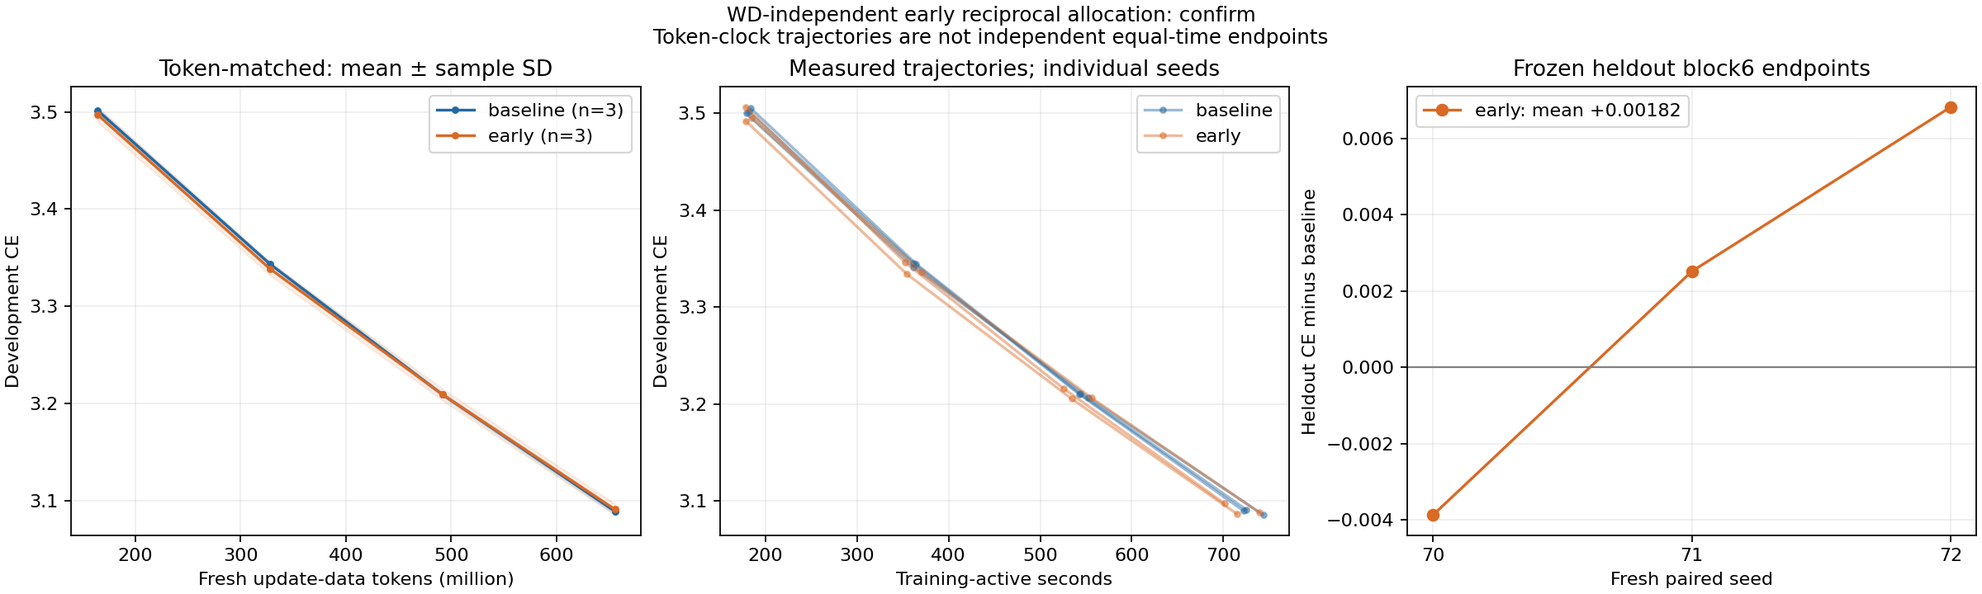
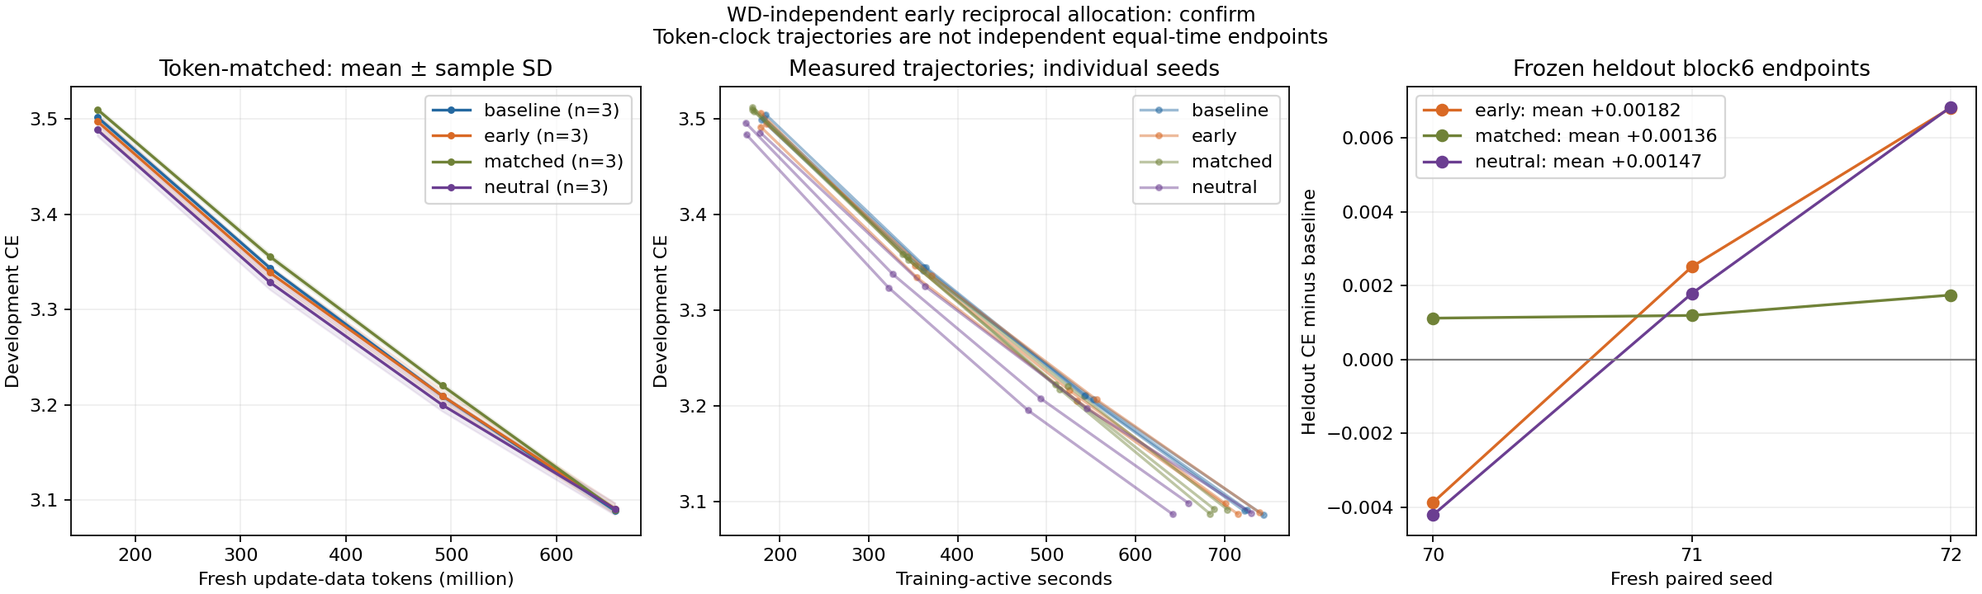
Complete controlled early-allocation study with six seeds and larger heldout evaluation

diff --git a/research/unnormalized_muon/EARLY_ALLOCATION_FINAL.md b/research/unnormalized_muon/EARLY_ALLOCATION_FINAL.md
@@ -1,0 +1,77 @@
+# Early reciprocal allocation: two-hour experiment report
+
+Completed2026-10-17T13:42:51.690129+00:00, within the requested11:53–13:53UTC window on17October2026. All code/configs/results are on `martinjaggi/nanochat:unnormalized-muon`.
+
+**Recommendation: retain the tuned plateau-plus-cooldown baseline. Neither tested WD-independent reciprocal early curve shows a reliable endpoint gain.** This is a negative result for this small controlled family, not a claim that every reciprocal schedule or horizon must fail.
+
+## Main result: six paired seeds
+
+All runs train for20000updates/655.36M fresh tokens. The entire late65% cooldown is identical. Negative deltas favor the variant; CE is natural-log cross-entropy per target token.
+
+| Early peak | Tau after warmup | Original262k heldout delta, mean / SD | Untouched2M heldout delta, mean / SD | Seeds |
+|---|---:|---:|---:|---:|
+| 1x baseline | infinity | reference | reference | 6 |
+| 1.5x | 13920 | +0.001538 / 0.002366 | +0.000718 / 0.002512 | 6 |
+| 2x | 6960 | +0.000727 / 0.003945 | +0.000659 / 0.002864 | 6 |
+
+The seed0 development screen was almost tied: baseline3.090447664,1.5x3.089904308,2x3.089890957. The2x choice was frozen on that screen;1.5x was retained as a secondary comparison before any fresh heldout endpoint because their gap was only0.000013CE. Paired seeds70/71/72 were followed by a balanced frozen-family replication on80/81/82. The extension followed an ambiguous initial result: six-seed estimates are descriptive, without a fixed-sample significance claim. Seeds vary model initialization; the native deterministic data stream is retained.
+
+The unchanged baseline repeat differed from the earlier baseline endpoint by+0.000907CE despite exactly identical initial parameters, all LR/WD inputs and data cursors. The first loss discrepancy was about1e-6 at update11. Compiled BF16 training is not bitwise reproducible across these jobs; no optimizer/model/data recipe change was found. Tiny single-run differences are therefore not a stable optimum.
+
+[Every paired seed, cohorts and curves](EARLY_ALLOCATION_REPLICATION.md). [All30original/larger heldout scores](EARLY_ALLOCATION_LARGE_HELDOUT.md).
+
+![Frozen family: curves and paired endpoints](EARLY_ALLOCATION_REPLICATION.png)
+
+## Weight-decay confound tested directly
+
+The baseline contraction product is0.044527729. Fixed-WD1.5x/2x curves give0.031427187/0.023892497, respectively. Final-product matching was solved with actual matrix LRs, not CLI LRs. All coefficients and products were checked against executed logs.
+
+| Comparison | Original heldout mean delta | Larger heldout mean delta | n |
+|---|---:|---:|---:|
+| 2x vs baseline LR with WD .05512714 | +0.000466 | +0.000072 | 3 |
+| 1.5x vs baseline LR with WD .05108095 | +0.001576 | +0.000169 | 3 |
+| 2x with WD .03827981 vs original baseline | +0.001475 | +0.001493 | 3 |
+| 2x with entire contraction history matched vs original baseline | +0.003186 | +0.003182 | 3 |
+
+No contraction-matched comparison shows a consistent advantage. Matching final products does not match decay histories. The stronger history diagnostic sets lambda_t=lambda_base*eta_base(t)/eta_early(t), preserving every scheduled contraction coefficient. It uses linear WD warmup during the reciprocal phase and ordinary fixed WD afterwards; its implied FW radius changes. It is an empirical diagnostic, not fixed-domain FW.
+
+The early validation advantage fades during the common late cooldown. The history diagnostic fails the predeclared equal-time promotion gate: its seed0 development score3.090945959 is worse than baseline, and paired heldout signs are mixed. **No new independent equal-time reruns were launched.** Token-clock curves versus seconds are descriptive and are not matched equal-time endpoints.
+
+[All control scores](EARLY_ALLOCATION_RESULTS.md), [LR/WD/contraction geometry](EARLY_ALLOCATION_PROTOCOL.md).
+
+![Actual scheduled LR, WD and contraction](EARLY_ALLOCATION_CONTROLS.png)
+
+## Minimal implementation and frozen recipe
+
+* Source fork base commit`b2bdf9890e028965ee7f2e97acc02d72b3c663ec`; first early-schedule implementation`55c6753066901695dd5fbe81304510c0d130f887`. Existing optimizer direction kernels were not changed in this continuation.
+* `cooldown_schedule.early_reciprocal` plus one matrix-only branch in `scripts/base_train.py`; `run.py` forwards the peak multiplier. For s=t-40 and T=6960, eta=.005*k/(1+s/tau), tau=T/(k-1). Warmup reaches k*.005. At update7000, join exactly. Updates7000 onward call the original cooldown function directly; last realized eta=.00005038076923. Tau is independent of WD.
+* History diagnostic adds a separate WD-only hook, preserving actual eta*lambda each update; no parameter direction or auxiliary update changes.
+* Dense depth8,width512,4heads,context1024;125829354 trainable parameters,25166016Muon parameters in52native matrices. Device batch32,accumulation1,32768fresh tokens/update;5.2083tokens per total parameter/run. Native ClimbMix/BOS packing and32k tokenizer; no Atlas assets.
+* Native BF16 computation and embedding storage, FP32 Muon parameters/momentum; FP8off. Clean direction retains native Nesterov, five Polar Express iterations and Frobenius correction; row equilibration/NorMuon off. Shape factors stay inside Q, with one actual canonical eta per matrix group. Ordinary unmasked decay only.
+* CLI matrix LR .02 gives actual join LR .005. Baseline fixed WD .04593746995939655.40-update warmup; final65% linear matrix cooldown to .01of join rate. Auxiliary AdamW schedules and native momentum .85→.97→.90 remain unchanged. Fixed tuning validation262144targets; original heldoutblock6, larger segment batch64–127/2097152targets.
+
+## Correctness and reproducibility
+
+*67CPU optimizer/math/queue checks passed, plus2focused equivalent-push checks;4GPU-only tests skipped on the CPU development pod. B300128-update integration check exercises all schedule phases, with maximum eta*lambda error5.42e-20.
+* Complete audit passes for36full runs/720000updates: exact native parameter partition, paired initial hashes, expected LR/WD, unchanged auxiliary schedules/data cursors, fixed validation hashes, correct gradient counts and contraction exposure. [Machine-readable audit](EARLY_ALLOCATION_EXECUTION_AUDIT.json).
+* All30frozen checkpoints reproduce both original score/hash pairs within1e-5 before larger scoring. Data are cloned from the native reused buffers; validation epoch1 prevents wrapping. The larger set is never used for LR or WD selection. Per-sequence nats/counts remain outside Git; no independence assumption is made for packed sequences.
+* Native NS is approximate, momentum is retained and training is stochastic: this does not validate an exact FW theorem. Results concern this model/batch/horizon/family only.
+
+## Timing and project budget
+
+| Arm | Median training-active sec | Median worker end-to-end sec | Fresh Mtoken/sec (median) |
+|---|---:|---:|---:|
+| baseline | 694.471 | 740.242 | 0.9452 |
+| mid | 661.025 | 711.177 | 0.9916 |
+| early | 707.874 | 753.260 | 0.9259 |
+| history | 689.480 | 734.799 | 0.9505 |
+
+Job throughput varies across scheduled devices/time. These identical native compute pipelines do not establish a method speed advantage from the observed timing differences. All full runs have20000fresh forward/backward evaluations and no extra optimizer probes. Compilation/warmup/evaluation/checkpoint overhead is included in worker/job cost and recorded separately; those clocks can overlap and should not be summed blindly.
+
+New continuation:36completed20k-update training runs, one passed128-update check, one failed short check, and one completed30-checkpoint evaluation. New conservatively charged request-hours **8.118327**, previous **37.069782**, whole project **45.188109/50B300-hours**. Reservations0; all requests/pods/GPU allocations released, including failed jobs. At mostsix outstanding requests and exactlyone actualB300 per job. Charge includes queue/startup/monitoring time and is not a billing measurement.
+
+The heldout-only job took114.259worker seconds, including9.764compilation seconds;2400evaluation microbatch forwards/78643200targets, zero training updates or gradients. Exactcommands, runtime limits, commits and paths are preserved in each run's submission.json and [EXPERIMENTS.csv](EXPERIMENTS.csv). Raw outputs/checkpoints/data are outside Git under`/mloscratch/homes/mljaggi/nanochat-unnormalized-muon-runs/<run_id>/`.
+
+Operational issues preserved: the64-update check had no valid phase between40-update warmup and cooldown; corrected to128with fail-fast validation. A redundant concurrent Git push found the same HEAD already upstream; no result was lost, and a two-test fix accepts only identical remote/local tips while preserving real failures. No branch reset, forcepush, alternate GPU or unrelated job deletion was used.
+
+Use the original plateau/cooldown baseline for this setup. The tested independent-tau early allocation, final-product controls and complete-history diagnostic supply no reliable reason to replace it. Further schedules/horizons remain new hypotheses and need a fair baseline; remaining budget is not a spending target.

diff --git a/research/unnormalized_muon/DETAILED_EVAL.md b/research/unnormalized_muon/DETAILED_EVAL.md
@@ -1,5 +1,7 @@
 # Detailed clean Muon evaluation
 
+[WD-independent early reciprocal experiment](EARLY_ALLOCATION_RESULTS.md) is reported separately, including six-seed replication and dynamic-WD controls.
+
 All results use the B300 fork model/data/tokenizer and a fixed tuning-validation prefix. CE is natural-log token cross-entropy; lower is better. Single-seed LR/WD screening is not a confirmation. Final heldout data is reserved for frozen settings. Compare endpoints only at matching token budgets. Wall-time curves include all training work, including FW forward probes; curves with token-based LR schedules are descriptive, not a separately matched equal-time experiment.
 
 ## Longer runs
@@ -12,42 +14,6 @@ All results use the B300 fork model/data/tokenizer and a fixed tuning-validation
 | normalized WD none 0 | 0.08 | 20000 | 3.112453 | 680.91 | 755.24 |
 | unnormalized cooldown WD none 0 | 0.32 | 20000 | 3.168984 | 681.31 | 754.69 |
 | unnormalized constant WD none 0 | 0.32 | 20000 | 3.209921 | 691.44 | 765.35 |
-| normalized WD standard 0 | 0.02 | 20000 | 3.091088 | 722.24 | 784.34 |
-| normalized WD standard 0 | 0.02 | 20000 | 3.085667 | 740.05 | 798.23 |
-| normalized WD standard 0 | 0.02 | 20000 | 3.089873 | 719.21 | 783.07 |
-| normalized WD standard 0 | 0.02 | 20000 | 3.085548 | 633.52 | 695.15 |
-| normalized WD standard 0 | 0.02 | 20000 | 3.086114 | 664.11 | 720.02 |
-| normalized WD standard 0 | 0.02 | 20000 | 3.088922 | 645.26 | 707.03 |
-| normalized WD standard 0 | 0.02 | 20000 | 3.088452 | 736.52 | 794.05 |
-| normalized WD standard 0 | 0.02 | 20000 | 3.086768 | 712.18 | 770.47 |
-| normalized WD standard 0 | 0.02 | 20000 | 3.097495 | 698.50 | 758.31 |
-| normalized WD standard 0 | 0.02 | 20000 | 3.090832 | 694.93 | 759.04 |
-| normalized WD standard 0 | 0.02 | 20000 | 3.090599 | 690.72 | 753.52 |
-| normalized WD standard 0 | 0.02 | 20000 | 3.085357 | 711.18 | 790.92 |
-| normalized WD standard 0 | 0.02 | 20000 | 3.090946 | 682.92 | 743.58 |
-| normalized WD standard 0 | 0.02 | 20000 | 3.088016 | 686.79 | 746.39 |
-| normalized WD standard 0 | 0.02 | 20000 | 3.089795 | 667.89 | 730.64 |
-| normalized WD standard 0 | 0.02 | 20000 | 3.099023 | 739.51 | 804.65 |
-| normalized WD standard 0 | 0.02 | 20000 | 3.091825 | 685.49 | 747.43 |
-| normalized WD standard 0 | 0.02 | 20000 | 3.087015 | 680.93 | 743.56 |
-| normalized WD standard 0 | 0.02 | 20000 | 3.091281 | 700.68 | 779.60 |
-| normalized WD standard 0 | 0.02 | 20000 | 3.088300 | 650.49 | 714.18 |
-| normalized WD standard 0 | 0.02 | 20000 | 3.085330 | 685.93 | 769.38 |
-| normalized WD standard 0 | 0.02 | 20000 | 3.098647 | 688.60 | 771.85 |
-| normalized WD standard 0 | 0.02 | 20000 | 3.088423 | 666.20 | 740.81 |
-| normalized WD standard 0 | 0.02 | 20000 | 3.090870 | 642.94 | 717.19 |
-| normalized WD standard 0 | 0.02 | 20000 | 3.088668 | 634.15 | 696.33 |
-| normalized WD standard 0 | 0.02 | 20000 | 3.089281 | 743.24 | 830.62 |
-| normalized WD standard 0 | 0.02 | 20000 | 3.084761 | 697.46 | 759.87 |
-| normalized WD standard 0 | 0.02 | 20000 | 3.091987 | 777.61 | 842.36 |
-| normalized WD standard 0 | 0.02 | 20000 | 3.087880 | 726.88 | 806.59 |
-| normalized WD standard 0 | 0.02 | 20000 | 3.086275 | 639.78 | 700.68 |
-| normalized WD standard 0 | 0.02 | 20000 | 3.098150 | 657.07 | 712.74 |
-| normalized WD standard 0 | 0.02 | 20000 | 3.091718 | 687.21 | 749.39 |
-| normalized WD standard 0 | 0.02 | 20000 | 3.089156 | 671.32 | 729.26 |
-| normalized WD standard 0 | 0.02 | 20000 | 3.090448 | 708.99 | 783.18 |
-| normalized WD standard 0 | 0.02 | 20000 | 3.089904 | 641.82 | 701.43 |
-| normalized WD standard 0 | 0.02 | 20000 | 3.089891 | 715.08 | 790.30 |
 | normalized WD standard 0 | 0.01 | 20000 | 3.111594 | 669.52 | 729.25 |
 | normalized WD standard 0 | 0.01 | 20000 | 3.111298 | 689.36 | 751.79 |
 | normalized WD standard 0 | 0.01 | 20000 | 3.110596 | 694.37 | 755.31 |
@@ -314,43 +280,6 @@ The shifted reciprocal control uses eta_i(t)=eta_i0/(1+lambda eta_i0*t/2) after4
 
 | Run | Mode | Fixed lambda | Updates | Val CE | Extra batch forwards | Process sec |
 |---|---|---:|---:|---:|---:|---:|
-| um-earlyalloc-confirm-baseline-s70 | early_reciprocal native | 0.04593747 | 20000 | 3.091088 | 0 | 784.34 |
-| um-earlyalloc-confirm-baseline-s71 | early_reciprocal native | 0.04593747 | 20000 | 3.085667 | 0 | 798.23 |
-| um-earlyalloc-confirm-baseline-s72 | early_reciprocal native | 0.04593747 | 20000 | 3.089873 | 0 | 783.07 |
-| um-earlyalloc-confirm-baseline-s80 | early_reciprocal native | 0.04593747 | 20000 | 3.085548 | 0 | 695.15 |
-| um-earlyalloc-confirm-baseline-s81 | early_reciprocal native | 0.04593747 | 20000 | 3.086114 | 0 | 720.02 |
-| um-earlyalloc-confirm-baseline-s82 | early_reciprocal native | 0.04593747 | 20000 | 3.088922 | 0 | 707.03 |
-| um-earlyalloc-confirm-early-s70 | early_reciprocal native | 0.04593747 | 20000 | 3.088452 | 0 | 794.05 |
-| um-earlyalloc-confirm-early-s71 | early_reciprocal native | 0.04593747 | 20000 | 3.086768 | 0 | 770.47 |
-| um-earlyalloc-confirm-early-s72 | early_reciprocal native | 0.04593747 | 20000 | 3.097495 | 0 | 758.31 |
-| um-earlyalloc-confirm-early-s80 | early_reciprocal native | 0.04593747 | 20000 | 3.090832 | 0 | 759.04 |
-| um-earlyalloc-confirm-early-s81 | early_reciprocal native | 0.04593747 | 20000 | 3.090599 | 0 | 753.52 |
-| um-earlyalloc-confirm-early-s82 | early_reciprocal native | 0.04593747 | 20000 | 3.085357 | 0 | 790.92 |
-| um-earlyalloc-confirm-history-check-002 | early_reciprocal native | 0.04593747 | 128 | 5.910295 | 0 | 61.07 |
-| um-earlyalloc-confirm-history-s0 | early_reciprocal native | 0.04593747 | 20000 | 3.090946 | 0 | 743.58 |
-| um-earlyalloc-confirm-history-s70 | early_reciprocal native | 0.04593747 | 20000 | 3.088016 | 0 | 746.39 |
-| um-earlyalloc-confirm-history-s71 | early_reciprocal native | 0.04593747 | 20000 | 3.089795 | 0 | 730.64 |
-| um-earlyalloc-confirm-history-s72 | early_reciprocal native | 0.04593747 | 20000 | 3.099023 | 0 | 804.65 |
-| um-earlyalloc-confirm-matched-s70 | early_reciprocal native | 0.05512714 | 20000 | 3.091825 | 0 | 747.43 |
-| um-earlyalloc-confirm-matched-s71 | early_reciprocal native | 0.05512714 | 20000 | 3.087015 | 0 | 743.56 |
-| um-earlyalloc-confirm-matched-s72 | early_reciprocal native | 0.05512714 | 20000 | 3.091281 | 0 | 779.60 |
-| um-earlyalloc-confirm-mid-s70 | early_reciprocal native | 0.04593747 | 20000 | 3.088300 | 0 | 714.18 |
-| um-earlyalloc-confirm-mid-s71 | early_reciprocal native | 0.04593747 | 20000 | 3.085330 | 0 | 769.38 |
-| um-earlyalloc-confirm-mid-s72 | early_reciprocal native | 0.04593747 | 20000 | 3.098647 | 0 | 771.85 |
-| um-earlyalloc-confirm-mid-s80 | early_reciprocal native | 0.04593747 | 20000 | 3.088423 | 0 | 740.81 |
-| um-earlyalloc-confirm-mid-s81 | early_reciprocal native | 0.04593747 | 20000 | 3.090870 | 0 | 717.19 |
-| um-earlyalloc-confirm-mid-s82 | early_reciprocal native | 0.04593747 | 20000 | 3.088668 | 0 | 696.33 |
-| um-earlyalloc-confirm-midmatched-s70 | early_reciprocal native | 0.05108095 | 20000 | 3.089281 | 0 | 830.62 |
-| um-earlyalloc-confirm-midmatched-s71 | early_reciprocal native | 0.05108095 | 20000 | 3.084761 | 0 | 759.87 |
-| um-earlyalloc-confirm-midmatched-s72 | early_reciprocal native | 0.05108095 | 20000 | 3.091987 | 0 | 842.36 |
-| um-earlyalloc-confirm-neutral-s70 | early_reciprocal native | 0.03827981 | 20000 | 3.087880 | 0 | 806.59 |
-| um-earlyalloc-confirm-neutral-s71 | early_reciprocal native | 0.03827981 | 20000 | 3.086275 | 0 | 700.68 |
-| um-earlyalloc-confirm-neutral-s72 | early_reciprocal native | 0.03827981 | 20000 | 3.098150 | 0 | 712.74 |
-| um-earlyalloc-match-seed0 | early_reciprocal native | 0.05512714 | 20000 | 3.091718 | 0 | 749.39 |
-| um-earlyalloc-neutral-seed0 | early_reciprocal native | 0.03827981 | 20000 | 3.089156 | 0 | 729.26 |
-| um-earlyalloc-screen-k1 | early_reciprocal native | 0.04593747 | 20000 | 3.090448 | 0 | 783.18 |
-| um-earlyalloc-screen-k1p5 | early_reciprocal native | 0.04593747 | 20000 | 3.089904 | 0 | 701.43 |
-| um-earlyalloc-screen-k2 | early_reciprocal native | 0.04593747 | 20000 | 3.089891 | 0 | 790.30 |
 | um-follow-confirm20000-control-s20 | cooldown native | 0.1837499 | 20000 | 3.111594 | 0 | 729.25 |
 | um-follow-confirm20000-control-s21 | cooldown native | 0.1837499 | 20000 | 3.111298 | 0 | 751.79 |
 | um-follow-confirm20000-control-s22 | cooldown native | 0.1837499 | 20000 | 3.110596 | 0 | 755.31 |

diff --git a/research/unnormalized_muon/EARLY_ALLOCATION_LARGE_HELDOUT.md b/research/unnormalized_muon/EARLY_ALLOCATION_LARGE_HELDOUT.md
@@ -1,0 +1,58 @@
+# Larger untouched heldout evaluation
+
+All30already-frozen final checkpoints scored on the SAME2097152target tokens, native validation batch positions64–127. Validation epoch1 is asserted; these positions are disjoint from original tuning/heldout blocks0–7. Same ClimbMix/native32k tokenizer,32x1024, native BF16 compute/FP32 matrix parameters and compiled loss path. NO training or gradient evaluations. Every checkpoint reproduced its ORIGINAL tuning and heldout hashes/scores within1e-5 before larger scoring.
+
+This adds a new evaluation segment without replacing the original outcomes or changing any settings. Absolute CE differs across segments; compare paired method differences within a segment. The fixed-WD family has6seeds; contraction controls have3. Per-sequence nats/counts are retained outside Git; packed sequences can be dependent, so no independent-sequence significance claim is made.
+
+| Seed | Arm | Original paired CE delta | Larger paired CE delta | Larger CE | Larger BPB |
+|---|---|---:|---:|---:|---:|
+| 70 | baseline | +0.000000000 | +0.000000000 | 3.113696814 | 0.950745310 |
+| 70 | early | -0.003867149 | -0.003471136 | 3.110225677 | 0.949693607 |
+| 70 | history | -0.001327515 | -0.000311375 | 3.113385439 | 0.950660740 |
+| 70 | matched | +0.001123667 | +0.000660419 | 3.114357233 | 0.950942860 |
+| 70 | mid | -0.001323700 | -0.002353907 | 3.111342907 | 0.950029048 |
+| 70 | midmatched | -0.000741005 | +0.000038385 | 3.113735199 | 0.950753250 |
+| 70 | neutral | -0.004207373 | -0.002703428 | 3.110993385 | 0.949925757 |
+| 71 | baseline | +0.000000000 | +0.000000000 | 3.109717131 | 0.949528764 |
+| 71 | early | +0.002515316 | +0.001342058 | 3.111059189 | 0.949941782 |
+| 71 | history | +0.004330873 | +0.003489017 | 3.113206148 | 0.950597949 |
+| 71 | matched | +0.001197100 | +0.001009941 | 3.110727072 | 0.949839074 |
+| 71 | mid | +0.000946522 | -0.000358582 | 3.109358549 | 0.949421321 |
+| 71 | midmatched | +0.000917673 | +0.000469208 | 3.110186338 | 0.949673575 |
+| 71 | neutral | +0.001791477 | +0.002324820 | 3.112041950 | 0.950246920 |
+| 72 | baseline | +0.000000000 | +0.000000000 | 3.114272118 | 0.950921153 |
+| 72 | early | +0.006819248 | +0.004828215 | 3.119100332 | 0.952405979 |
+| 72 | history | +0.006553173 | +0.006368637 | 3.120640755 | 0.952877563 |
+| 72 | matched | +0.001748562 | +0.000813007 | 3.115085125 | 0.951175592 |
+| 72 | mid | +0.005539656 | +0.004814148 | 3.119086266 | 0.952394105 |
+| 72 | midmatched | +0.000256538 | +0.001086950 | 3.115359068 | 0.951252806 |
+| 72 | neutral | +0.006840467 | +0.004856348 | 3.119128466 | 0.952409475 |
+| 80 | baseline | +0.000000000 | +0.000000000 | 3.110992432 | 0.949925975 |
+| 80 | early | +0.002494812 | +0.001369715 | 3.112362146 | 0.950325663 |
+| 80 | mid | +0.002848148 | -0.000531673 | 3.110460758 | 0.949758291 |
+| 81 | baseline | +0.000000000 | +0.000000000 | 3.113025904 | 0.950541423 |
+| 81 | early | -0.001296520 | +0.001451731 | 3.114477634 | 0.950985036 |
+| 81 | mid | +0.000620842 | +0.002307653 | 3.115333557 | 0.951236999 |
+| 82 | baseline | +0.000000000 | +0.000000000 | 3.111200571 | 0.949988838 |
+| 82 | early | -0.002302647 | -0.001568079 | 3.109632492 | 0.949513540 |
+| 82 | mid | +0.000594378 | +0.000429869 | 3.111630440 | 0.950124035 |
+
+mid: n=6, original mean delta+0.001538; larger-set mean **+0.000718CE**, sampleSD **0.002512**.
+
+early: n=6, original mean delta+0.000727; larger-set mean **+0.000659CE**, sampleSD **0.002864**.
+
+matched: n=3, original mean delta+0.001356; larger-set mean **+0.000828CE**, sampleSD **0.000175**.
+
+neutral: n=3, original mean delta+0.001475; larger-set mean **+0.001493CE**, sampleSD **0.003848**.
+
+midmatched: n=3, original mean delta+0.000144; larger-set mean **+0.000532CE**, sampleSD **0.000527**.
+
+history: n=3, original mean delta+0.003186; larger-set mean **+0.003182CE**, sampleSD **0.003351**.
+
+Final-contraction-controlled early minus matched: larger-set mean **+0.000072CE**, sampleSD **0.004080**, n=3.
+
+Final-contraction-controlled mid minus midmatched: larger-set mean **+0.000169CE**, sampleSD **0.003179**, n=3.
+
[1 lines of base64/hex data omitted]
+
+![Original versus larger paired heldout differences](EARLY_ALLOCATION_LARGE_HELDOUT.png)

diff --git a/research/unnormalized_muon/EARLY_ALLOCATION_RESULTS.md b/research/unnormalized_muon/EARLY_ALLOCATION_RESULTS.md
@@ -1,6 +1,6 @@
 # Early reciprocal allocation results
 
-Updated 2026-10-17T13:34:51.558731+00:00. Two-hour research window11:53–13:53UTC,17October2026. Exactly one verified B300/run, six-slot central queue,50B300-hour project-total cap.
+Updated 2026-10-17T13:42:47.905093+00:00. Two-hour research window11:53–13:53UTC,17October2026. Exactly one verified B300/run, six-slot central queue,50B300-hour project-total cap.
 
 This is a new WD-independent schedule, distinct from the earlier WD-coupled reciprocal curve multiplied by cooldown. Baseline actual eta .005, fixed ordinary WD .04593746995939655; 40-update warmup, join at7000, original late65% cooldown unchanged to nominal .00005. Full20k updates/655.36M tokens per token-matched run. [Protocol](EARLY_ALLOCATION_PROTOCOL.md).
 
@@ -10,6 +10,7 @@ This is a new WD-independent schedule, distinct from the earlier WD-coupled reci
 | Early peak 1.5x | 3.089904308 | 644.464 | 0.031427187 |
 | Early peak 2x | 3.089890957 | 718.603 | 0.023892497 |
 | Baseline LR, matched WD 0.055127136 | 3.091718435 | 690.056 | 0.023892497 |
+| Early2x, baseline-contraction WD 0.038279807 | 3.089156389 | 673.512 | 0.044527729 |
 
 Frozen seed0-only selection:
 ```json
@@ -66,8 +67,48 @@ matched minus baseline: mean **+0.001356 CE**, sample SD **0.000342**, n=3.
 
 neutral minus baseline: mean **+0.001475 CE**, sample SD **0.005531**, n=3.
 
+Final-contraction-controlled early minus matched: mean **+0.000466 CE**, sample SD **0.005085**.
+
+Final-contraction-controlled neutral minus baseline: mean **+0.001475 CE**, sample SD **0.005531**.
+
 ## Limits and accounting
 
 Matching final contraction does not match decay history. Both fixed-WD early-allocation and matched-contraction comparisons are required to separate explanations. Auxiliary LRs/WD and momentum are matched. Per-run schedules/logs/checkpoints and hardware assertions are preserved outside Git. Three paired seeds provide limited evidence. Development and heldout blocks are distinct; block6 is used only after settings freeze. Token-clock time curves are descriptive and are not equal-time endpoints.
 
-Conservative recorded request-hours 45.146974; outstanding reserved hours 0.000000. Includes prior and failed work; queued/startup/cleanup request time upper-bounds GPU occupancy.
+Conservative recorded request-hours 45.188109; outstanding reserved hours 0.000000. Includes prior and failed work; queued/startup/cleanup request time upper-bounds GPU occupancy.
+
+## Predeclared near-tied1.5x confirmation
+
+| Seed | Heldout CE | Delta vs original baseline | Active seconds | Contraction product |
+|---|---:|---:|---:|---:|
+| 70 | 3.130945206 | -0.001323700 | 652.872 | 0.031427187 |
+| 71 | 3.127163172 | +0.000946522 | 688.761 | 0.031427187 |
+| 72 | 3.137712240 | +0.005539656 | 691.419 | 0.031427187 |
+
+Mean paired delta **+0.001721 CE**, sample SD **0.003497**, n=3.
+
+1.5x minus its final-contraction-matched baseline: mean **+0.001576 CE**, sample SD **0.003225**.
+
+## 1.5x final-contraction-matched control
+
+| Seed | Heldout CE | Delta vs original baseline | Active seconds | Contraction product |
+|---|---:|---:|---:|---:|
+| 70 | 3.131527901 | -0.000741005 | 747.199 | 0.031427187 |
+| 71 | 3.127134323 | +0.000917673 | 700.173 | 0.031427187 |
+| 72 | 3.132429123 | +0.000256538 | 780.439 | 0.031427187 |
+
+Mean paired delta **+0.000144 CE**, sample SD **0.000835**, n=3.
+
+## 2x with complete contraction history matched
+
+| Seed | Heldout CE | Delta vs original baseline | Active seconds | Contraction product |
+|---|---:|---:|---:|---:|
+| 70 | 3.130941391 | -0.001327515 | 689.480 | 0.044527729 |
+| 71 | 3.130547523 | +0.004330873 | 670.580 | 0.044527729 |
+| 72 | 3.138725758 | +0.006553173 | 742.163 | 0.044527729 |
+
+Mean paired delta **+0.003186 CE**, sample SD **0.004063**, n=3.
+
+History-matched128-update B300 integration job: completed. Actual per-update gamma is audited before full diagnostic runs.
+
+The1.5x secondary arm and history-matched diagnostic were committed before any fresh heldout endpoints. They are reported alongside the primary2x selection, not chosen after test-set inspection. History matching deliberately varies WD/the implied domain; it is a diagnostic of LR allocation, not a fixed-WD FW method.

diff --git a/research/unnormalized_muon/STATUS.md b/research/unnormalized_muon/STATUS.md
@@ -357,3 +357,5 @@ Replicate ALL THREE frozen fixed-WD early allocations on NEW seeds80/81/82 after
 All30frozen checkpoints complete. Evaluate them unchanged on2097152untouched target tokens, native32x1024/validation batches64-127. Reproduce BOTH original score/hash pairs for EVERY checkpoint before scoring. ZERO optimizer or gradient updates. OneB300600s,maxsixcentralqueue,~0.1GPUh. Outputum-earlyalloc-large-eval-001; all original outcomes retained. Evaluation-only scores excluded from training curves.
 
 13:37UTC:36full runs/720000updates pass complete coefficient/aux/data-pair audit. Frozen evaluation running and roundtrips pass so far. A redundant end-of-stage Git push raced with the next-stage publisher: upstream already held the identical52e261e commit, so no code/results were lost and evaluation launched normally. The finished training controller exited on that redundant-push error; a monitor-only queue process now watches evaluation. Fix push helper to accept ONLY an already-identical remoteHEAD, preserving real failures; two focused CPU checks pass. No reset/forcepush.
+
+Completed2026-10-17T13:42:51.690129+00:00: independent-tau early allocation study finished within requested2hwindow. Six-seed original/larger mean deltas1.5x +.001538/+.000718CE,2x+.000727/+.000659.3seedhistory diagnostic+.003186/+.003182; no promotion.36full training runs,128stepGPUcheck, one preservedfailed64stepcheck,30frozen-checkpointlarger eval.67+2CPUchecks pass;720000executedupdates audited; all30roundtrips pass. Project45.188109/50request-hours,0reserved; authoritative TrainingWorkloads/RunaiJobs/Pods empty. Full findingsEARLY_ALLOCATION_FINAL.md; retainbaseline. No further submissions planned.

diff --git a/research/unnormalized_muon/README.md b/research/unnormalized_muon/README.md
@@ -41,3 +41,5 @@ Additional review links: [static LR/WD grid](WINDOW_STATIC_GRID.md), [delayed co
 The October17 continuation changes only the matrix LR warmup/early plateau, leaving the tuned baseline's entire late65% cooldown and all auxiliary/momentum schedules identical. `cooldown_schedule.early_reciprocal` and one `scripts/base_train.py` matrix-only branch implement it; `run.py` forwards the peak multiplier. No optimizer direction or decay kernel changes. `early_allocation.py` audits the executed schedule, selects on seed0 development only, solves exact final-contraction controls, then uses frozen fresh-seed/equal-time stages through the existing capped queue.
 
 [Protocol](EARLY_ALLOCATION_PROTOCOL.md), [live results](EARLY_ALLOCATION_RESULTS.md), [schedule figure](EARLY_ALLOCATION_SCREEN.png). Run `python -m research.unnormalized_muon.early_plot` to regenerate the plot from immutable raw runs. Tests:64 passed,4GPU-only skipped on CPU; new pure math tests cover all20001 baseline/join/late indices and exact contraction matching.
+
+Latest continuation: [two-hour early allocation report](EARLY_ALLOCATION_FINAL.md), [all frozen larger-heldout outcomes](EARLY_ALLOCATION_LARGE_HELDOUT.md). Six paired seeds show no reliable gain for1.5x/2xearly peaks with the full late cooldown preserved. Complete36-run coefficient audit and30-checkpoint numerical roundtrip checks pass;45.1881/50conservative B300request-hours total, all GPUs released.
